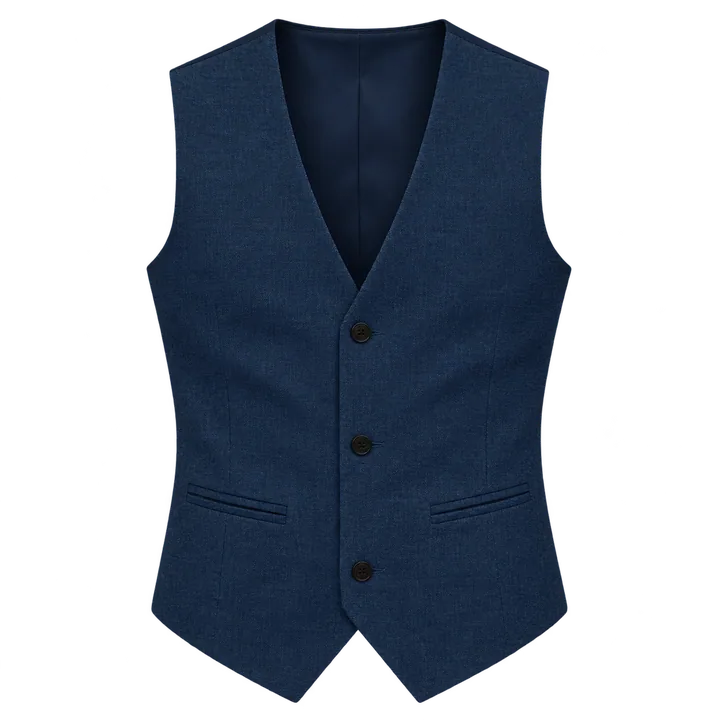
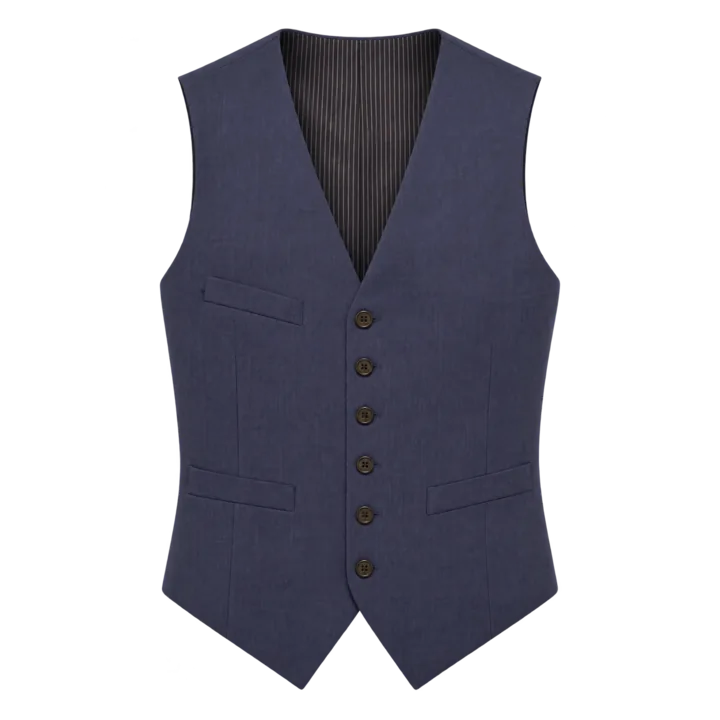
Add blue waistcoat navy trouser variants

diff --git a/data-catalog.js b/data-catalog.js
@@ -19,6 +19,7 @@
    - lookAliases resolves legacy bookmarks and rotation history to the identical existing look. */
 window.FITS_DATA={
 families:[
+{id:'family-blue-microstripe-waistcoat-navy-dress-trousers',name:'Blue micro-stripe waistcoat + white shirt + navy dress trousers',hero:'look-blue-microstripe-waistcoat-navy-dress-burgundy-tie',looks:['look-blue-microstripe-waistcoat-navy-dress-burgundy-tie','look-blue-microstripe-waistcoat-navy-dress-open-collar']},
 {id:'family-blue-waistcoat-grey-dress-trousers',name:'Blue waistcoat + white shirt + grey dress trousers',hero:'look-blue-waistcoat-grey-dress-trousers',looks:['look-blue-waistcoat-grey-dress-trousers']},
 {id:'family-blue-waistcoat-beige-chinos',name:'Blue waistcoat + white shirt + beige chinos',hero:'look-blue-waistcoat-beige-chinos',looks:['look-blue-waistcoat-beige-chinos']},
 {id:'family-dark-green-crewneck-beige-chinos',name:'Christmas green crewneck + beige chinos + white leather sneakers',hero:'look-dark-green-crewneck-beige-chinos',looks:['look-dark-green-crewneck-beige-chinos']},
@@ -237,6 +238,8 @@ families:[
 ,{id:'family-look-207',name:'Blue gingham shirt + navy chinos',hero:'look-207',looks:['look-207']}
 ],
 looks:[
+{id:'look-blue-microstripe-waistcoat-navy-dress-burgundy-tie',family:'family-blue-microstripe-waistcoat-navy-dress-trousers',name:'Blue micro-stripe waistcoat + burgundy tie + navy dress trousers',image:'assets/look-blue-microstripe-waistcoat-navy-dress-burgundy-tie.webp?v=1',publishedOn:'2026-11-10',formal:4,badges:['Office','Dinner'],pieces:['owned-blue-tailored-waistcoat','white-shirt','owned-dark-burgundy-silk-tie','navy-dress-trousers','owned-brown-leather-captoe']},
+{id:'look-blue-microstripe-waistcoat-navy-dress-open-collar',family:'family-blue-microstripe-waistcoat-navy-dress-trousers',name:'Blue micro-stripe waistcoat + white shirt + navy dress trousers',image:'assets/look-blue-microstripe-waistcoat-navy-dress-open-collar.webp?v=1',publishedOn:'2026-11-10',formal:3,badges:['Office','Dinner'],pieces:['owned-blue-tailored-waistcoat','white-shirt','navy-dress-trousers','owned-brown-leather-captoe']},
 {id:'look-blue-waistcoat-grey-dress-trousers',family:'family-blue-waistcoat-grey-dress-trousers',name:'Blue waistcoat + white shirt + grey dress trousers',image:'assets/look-blue-waistcoat-grey-dress-trousers.webp?v=1',publishedOn:'2026-11-10',formal:3,badges:['Office','Dinner'],pieces:['owned-blue-tailored-waistcoat','white-shirt','grey-dress-trousers','owned-black-leather-captoe']},
 {id:'look-blue-waistcoat-beige-chinos',family:'family-blue-waistcoat-beige-chinos',name:'Blue waistcoat + white shirt + beige chinos',image:'assets/look-blue-waistcoat-beige-chinos.webp?v=1',publishedOn:'2026-11-10',formal:2,badges:['Weekend','Dinner'],pieces:['owned-blue-tailored-waistcoat','white-shirt','beige-chinos','brown-loafers']},
 {id:'look-dark-green-crewneck-beige-chinos',publishedOn:'2026-11-09',family:'family-dark-green-crewneck-beige-chinos',name:'Christmas green crewneck + beige chinos + white leather sneakers',image:'assets/look-dark-green-crewneck-beige-chinos.webp?v=3',formal:2,badges:['Weekend','Travel'],pieces:['dark-green-crewneck-sweater','beige-chinos','white-leather-sneakers']},
@@ -492,7 +495,8 @@ looks:[
 ,{id:'look-207',publishedOn:'2026-11-05',family:'family-look-207',name:'Blue gingham shirt + navy chinos + cognac loafers',image:'assets/look-207-blue-gingham-navy-chinos-brown-loafers.png?v=1',formal:2,badges:['Office','Weekend','Travel'],pieces:['owned-blue-gingham-shirt','navy-trousers','brown-loafers']}
 ],
 pieces:[
-{id:'owned-blue-tailored-waistcoat',name:'Blue tailored waistcoat',category:'Outerwear',status:'owned'},
+{id:'owned-blue-tailored-waistcoat',name:'Blue micro-stripe tailored waistcoat',category:'Outerwear',status:'owned'},
+{id:'owned-dark-burgundy-silk-tie',name:'Dark burgundy silk tie',category:'Accessory',status:'owned'},
 {id:'dark-green-crewneck-sweater',name:'Christmas green crewneck sweater',category:'Top',status:'owned'},
 {"id":"navy-wool-shirt-jacket","name":"Navy wool shirt jacket","category":"Outerwear","status":"missing"},
 {"id":"brown-knit-quarterzip","name":"Brown quarter-zip knit sweater","category":"Top","status":"missing"},
@@ -639,7 +643,7 @@ pieces:[
 {id:'black-dress-trousers',name:'Black dress trousers',category:'Pants',status:'missing'},
 {id:'dark-charcoal-dress-trousers',name:'Dark charcoal dress trousers',category:'Pants',status:'missing'},
 {id:'grey-dress-trousers',name:'Grey dress trousers',category:'Pants',status:'missing'},
-{id:'navy-dress-trousers',name:'Navy dress trousers',category:'Pants',status:'missing'},
+{id:'navy-dress-trousers',name:'Navy dress trousers',category:'Pants',status:'owned'},
 {id:'darkbrown-suede-loafers',name:'Dark brown suede loafers',category:'Shoes',status:'missing'}
 ],
 inspirations:[

diff --git a/fits-pipeline.js b/fits-pipeline.js
@@ -3,7 +3,7 @@
    Add, remove, reorder or cache-bump a data step here only, never in a page.
 
    Pages load it as the first script in <body>, then their own UI scripts:
-     <script src="fits-pipeline.js?v=24"></script>
+     <script src="fits-pipeline.js?v=25"></script>
    Cloudflare caches it for 4 hours, so bump that ?v= in every page whenever this file changes.
    document.write keeps the steps parser-blocking and in order, before the page's own scripts
    and before DOMContentLoaded, exactly like the static <script> tags it replaces.
@@ -12,7 +12,7 @@
 (()=>{
   const steps=[
     // Source data: edit records in data-catalog.js and bump its ?v= here
-    'data-catalog.js?v=33',
+    'data-catalog.js?v=34',
     // Wardrobe cleanup
     'wardrobe-canonical-v2.js?v=5',
     'look-aliases.js?v=1',
@@ -41,7 +41,7 @@
     // Garment groups for the Wardrobe and Looks filters (FITS_KINDS)
     'garment-kinds.js?v=4',
     // Piece image maps (window.FITS_CATALOG_IMAGES)
-    'catalog-images.js?v=2','catalog-batch2.js?v=2','catalog-batch3.js?v=2','catalog-v4.js?v=18'
+    'catalog-images.js?v=2','catalog-batch2.js?v=2','catalog-batch3.js?v=2','catalog-v4.js?v=19'
   ];
   window.FITS_PIPELINE=steps;
   if(typeof document!=='undefined'&&typeof document.write==='function')

diff --git a/inspiration-lab.html b/inspiration-lab.html
@@ -51,7 +51,7 @@ nav a{color:#cdd2d5;font-size:12px;text-decoration:none}nav a.active{color:white
 <section id="savedView" class="hidden"><h1>My versions</h1><p class="subtle">Saved combinations, independent from original looks.</p><div id="savedList"></div></section>
 <nav><a href="#" data-screen="browse" class="active">✦ Inspiration</a><a href="#" data-screen="savedView">♡ My versions</a><a href="wardrobe.html">◇ Wardrobe</a><a href="index.html">⌂ FITS Home</a></nav>
 </div>
-<script src="fits-pipeline.js?v=24"></script>
+<script src="fits-pipeline.js?v=25"></script>
 <script src="weather-location-cache.js?v=5"></script>
 <script src="season-filter.js?v=33"></script>
 <script>

diff --git a/catalog-v4.js b/catalog-v4.js
@@ -88,5 +88,6 @@ Object.assign(window.FITS_CATALOG_IMAGES, {
 });
 
 Object.assign(window.FITS_CATALOG_IMAGES, {
-'owned-blue-tailored-waistcoat':'assets/catalog-owned-blue-tailored-waistcoat.webp?v=1'
+'owned-blue-tailored-waistcoat':'assets/catalog-owned-blue-tailored-waistcoat.webp?v=2',
+'owned-dark-burgundy-silk-tie':'assets/catalog-owned-dark-burgundy-silk-tie.webp?v=1'
 });

diff --git a/wardrobe.html b/wardrobe.html
@@ -19,7 +19,7 @@
 </head>
 <body data-page="wardrobe-v5">
   <div id="root"></div>
-  <script src="fits-pipeline.js?v=24"></script>
+  <script src="fits-pipeline.js?v=25"></script>
   <script>var PIECE_IMAGES=window.PIECE_IMAGES||{};</script>
   <script src="piece-image-overrides.js?v=41"></script>
   <script src="looks-v5-core.js?v=16"></script>

diff --git a/looks.html b/looks.html
@@ -23,7 +23,7 @@
 </head>
 <body data-page="looks-v5">
   <div id="root"></div>
-  <script src="fits-pipeline.js?v=24"></script>
+  <script src="fits-pipeline.js?v=25"></script>
   <script>var PIECE_IMAGES=window.PIECE_IMAGES||{};</script>
   <script src="piece-image-overrides.js?v=41"></script>
   <script src="looks-v5-core.js?v=16"></script>

diff --git a/next-buy.html b/next-buy.html
@@ -19,7 +19,7 @@
 </head>
 <body data-page="next-buy">
   <div id="root"></div>
-  <script src="fits-pipeline.js?v=24"></script>
+  <script src="fits-pipeline.js?v=25"></script>
   <script>var PIECE_IMAGES=window.PIECE_IMAGES||{};</script>
   <script src="piece-image-overrides.js?v=41"></script>
   <script src="looks-v5-core.js?v=16"></script>

diff --git a/piece.html b/piece.html
@@ -19,7 +19,7 @@
 </head>
 <body data-page="piece-v5">
   <div id="root"></div>
-  <script src="fits-pipeline.js?v=24"></script>
+  <script src="fits-pipeline.js?v=25"></script>
   <script>var PIECE_IMAGES=window.PIECE_IMAGES||{};</script>
   <script src="piece-image-overrides.js?v=41"></script>
   <script src="looks-v5-core.js?v=16"></script>

diff --git a/stats.html b/stats.html
@@ -19,7 +19,7 @@
 </head>
 <body data-page="stats-v5">
   <div id="root"></div>
-  <script src="fits-pipeline.js?v=24"></script>
+  <script src="fits-pipeline.js?v=25"></script>
   <script>var PIECE_IMAGES=window.PIECE_IMAGES||{};</script>
   <script src="piece-image-overrides.js?v=41"></script>
   <script src="looks-v5-core.js?v=16"></script>

diff --git a/detail.html b/detail.html
@@ -26,7 +26,7 @@
 </head>
 <body>
   <div id="root"></div>
-  <script src="fits-pipeline.js?v=24"></script>
+  <script src="fits-pipeline.js?v=25"></script>
   <script>window.PIECE_IMAGES=window.FITS_CATALOG_IMAGES||{};</script>
   <script src="piece-image-overrides.js?v=41"></script>
   <script src="detail-v3.js?v=40"></script>

diff --git a/index.html b/index.html
@@ -54,7 +54,7 @@
 </head>
 <body>
   <div id="root"></div>
-  <script src="fits-pipeline.js?v=24"></script>
+  <script src="fits-pipeline.js?v=25"></script>
   <script src="fits-weather.js?v=1"></script>
   <script src="home-v2.js?v=34"></script>
   <script src="weather-location-cache.js?v=5"></script>
